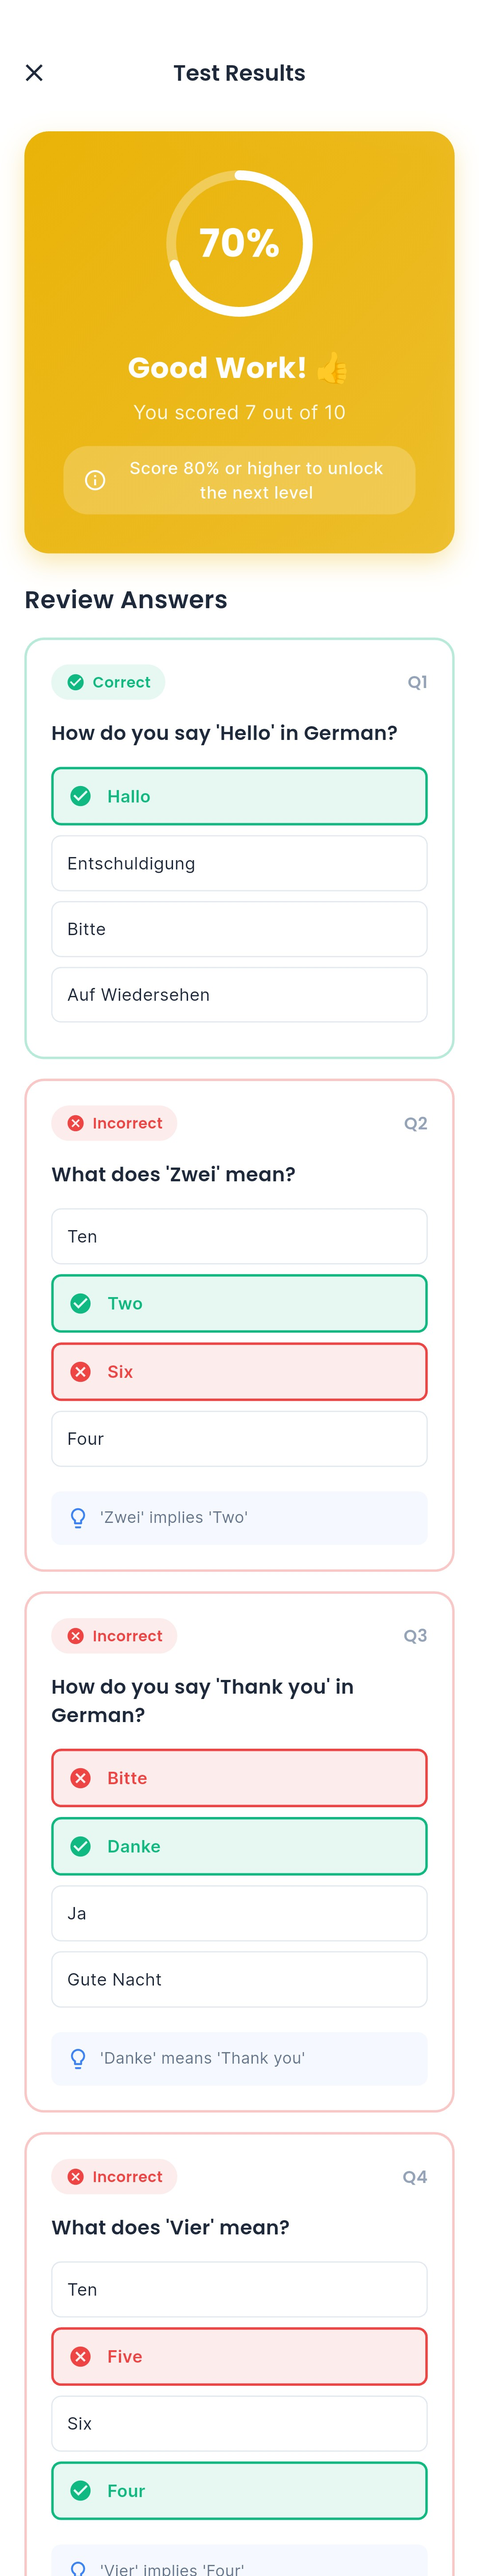
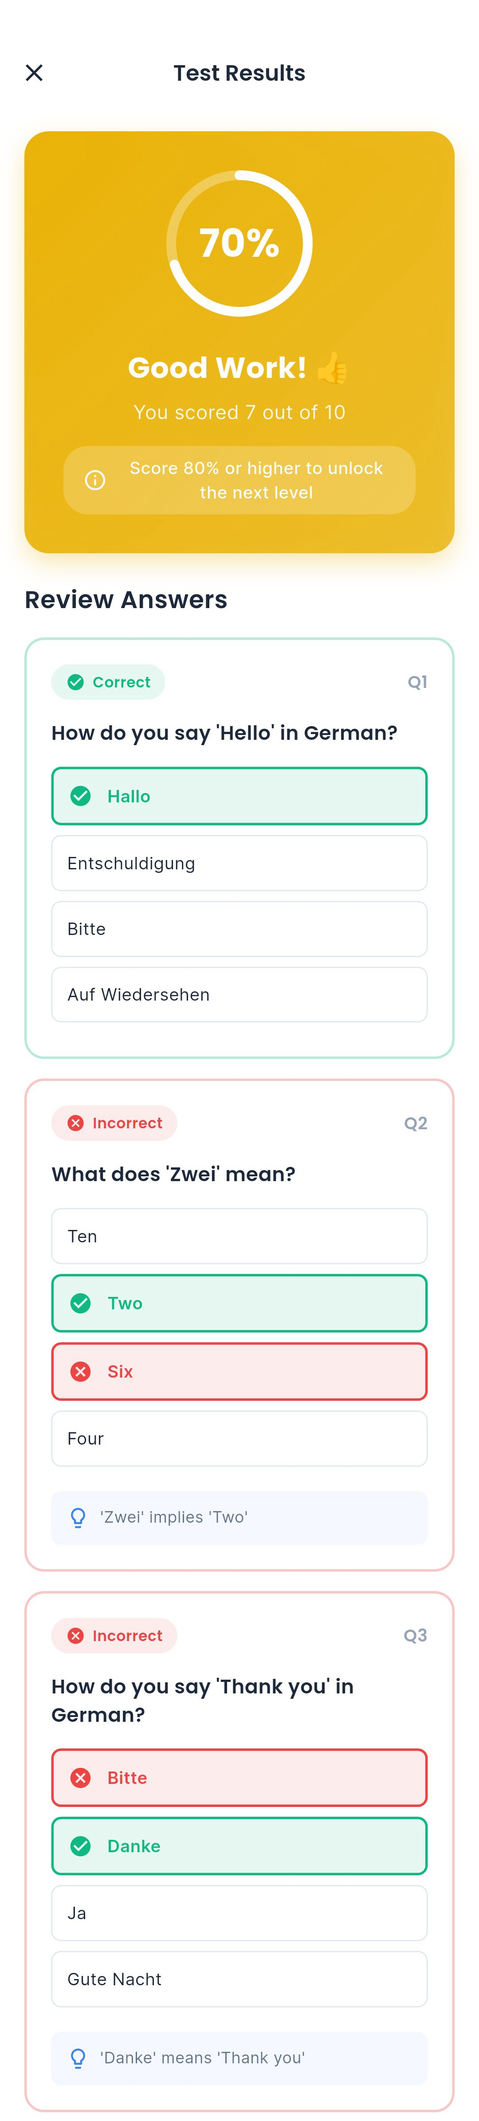
Commit manually cropped images and update README grid

diff --git a/README.md b/README.md
@@ -71,14 +71,14 @@ The app has **24 user-facing screens** and **1 bottom-navigation shell** (`MainS
 
 <table width="100%">
   <tr>
-    <td width="33%" align="center"><b>Onboarding</b><br><br><img src="docs/screenshots/onboarding-interests-language.jpg" width="100%" alt="Onboarding"></td>
+    <td width="33%" align="center"><b>Onboarding Interests</b><br><br><img src="docs/screenshots/onboarding-interests.jpg" width="100%" alt="Onboarding Interests"></td>
+    <td width="33%" align="center"><b>Onboarding Language</b><br><br><img src="docs/screenshots/onboarding-language.jpg" width="100%" alt="Onboarding Language"></td>
     <td width="33%" align="center"><b>Home Dashboard</b><br><br><img src="docs/screenshots/home-dashboard.jpg" width="100%" alt="Home Dashboard"></td>
-    <td width="33%" align="center"><b>Call Summary</b><br><br><img src="docs/screenshots/call-summary.jpg" width="100%" alt="Call Summary"></td>
   </tr>
   <tr>
+    <td width="33%" align="center"><b>Call Summary</b><br><br><img src="docs/screenshots/call-summary.jpg" width="100%" alt="Call Summary"></td>
     <td width="33%" align="center"><b>Vocabulary List</b><br><br><img src="docs/screenshots/vocabulary-list.jpg" width="100%" alt="Vocabulary List"></td>
     <td width="33%" align="center"><b>Test Result</b><br><br><img src="docs/screenshots/test-result.jpg" width="100%" alt="Test Result"></td>
-    <td width="33%"></td>
   </tr>
 </table>
 
